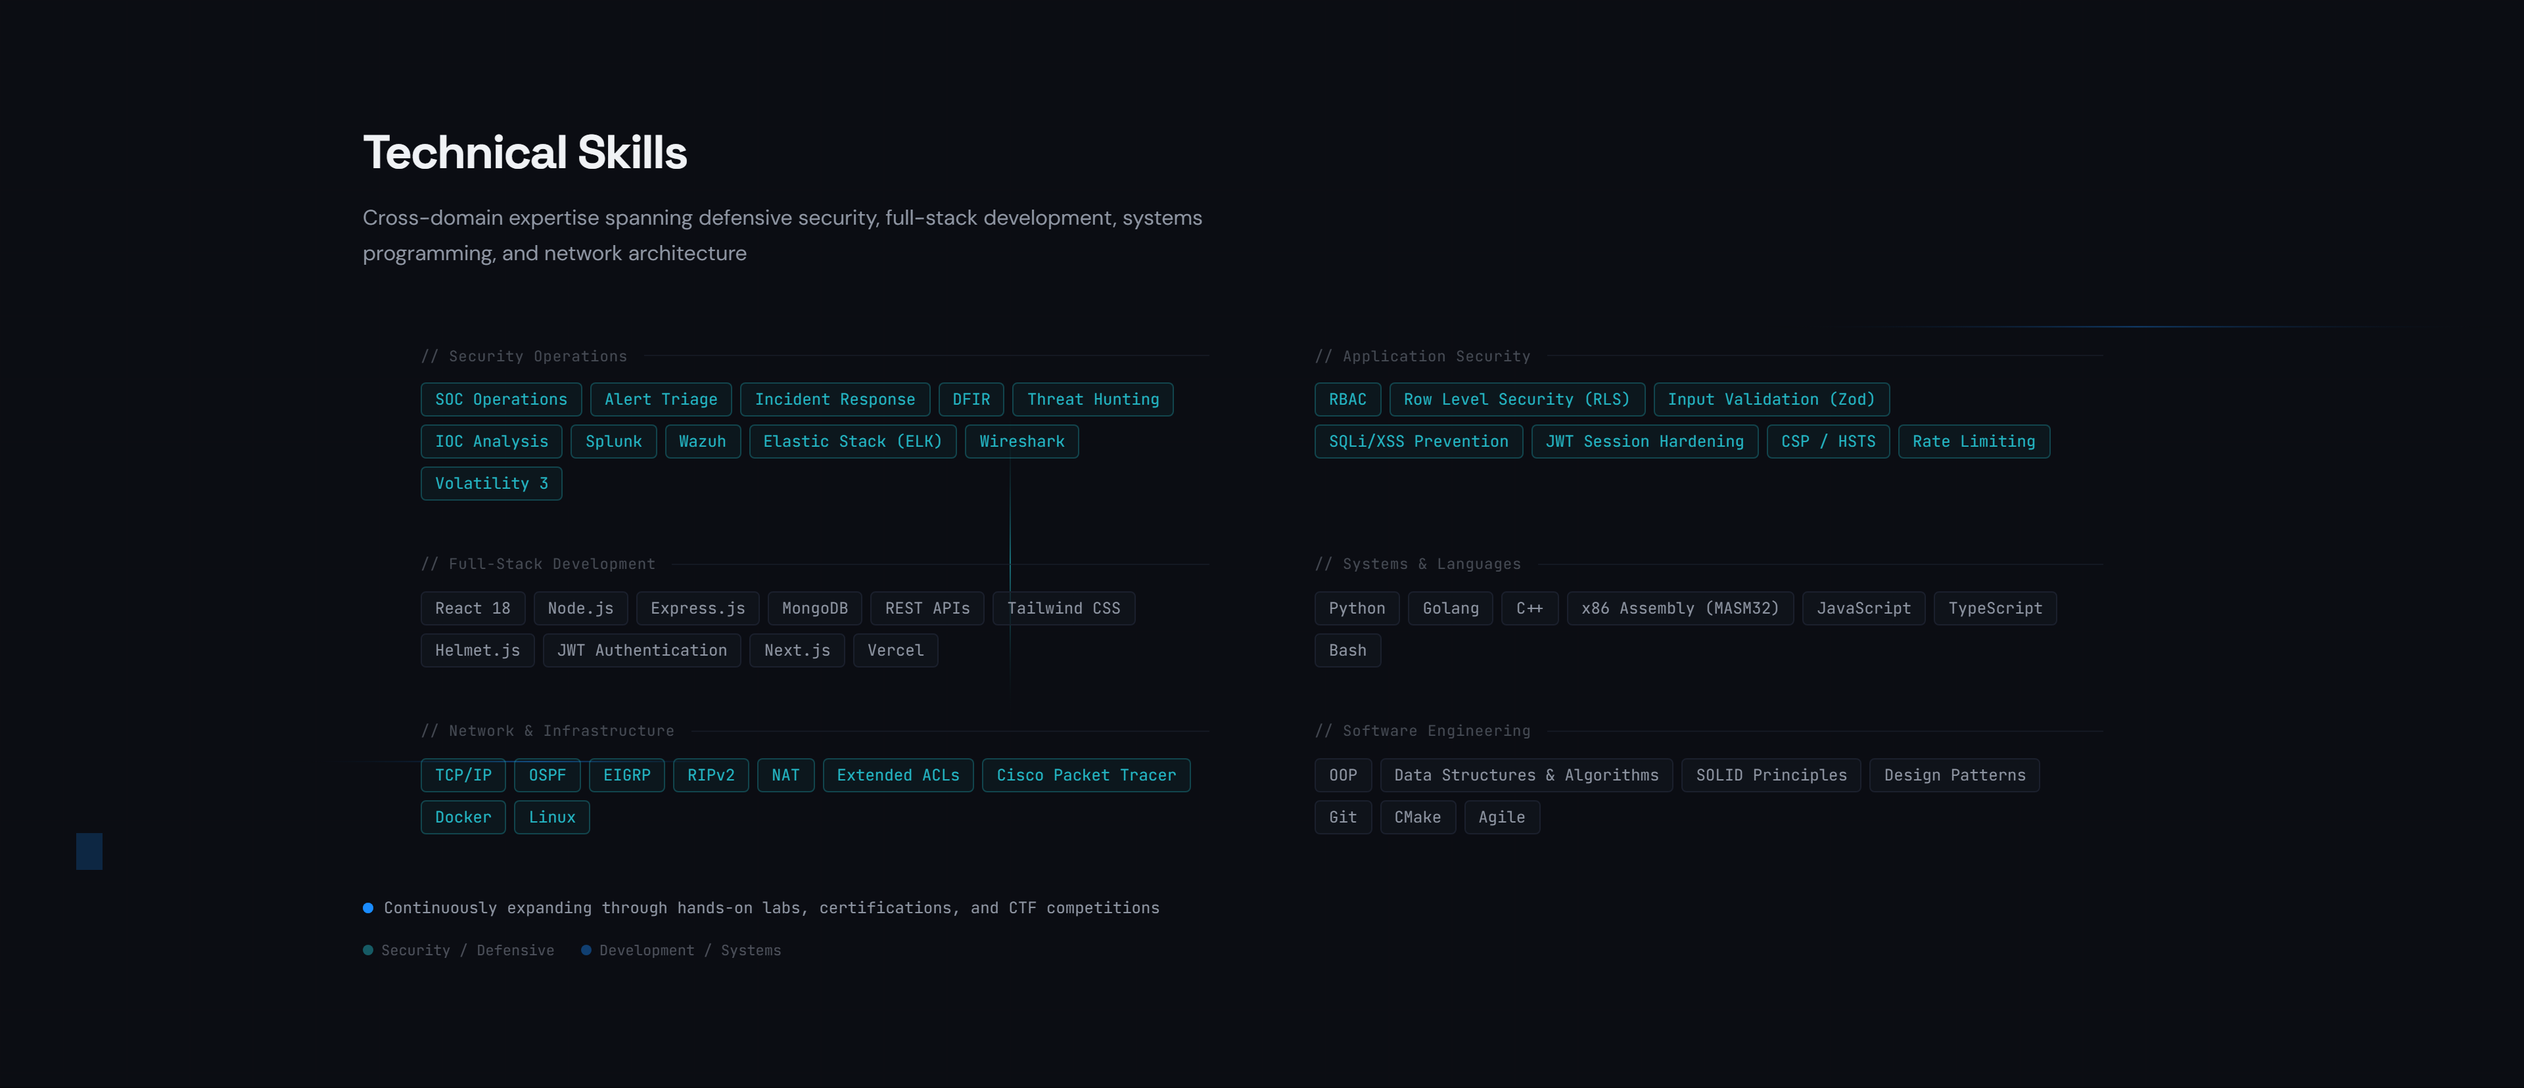
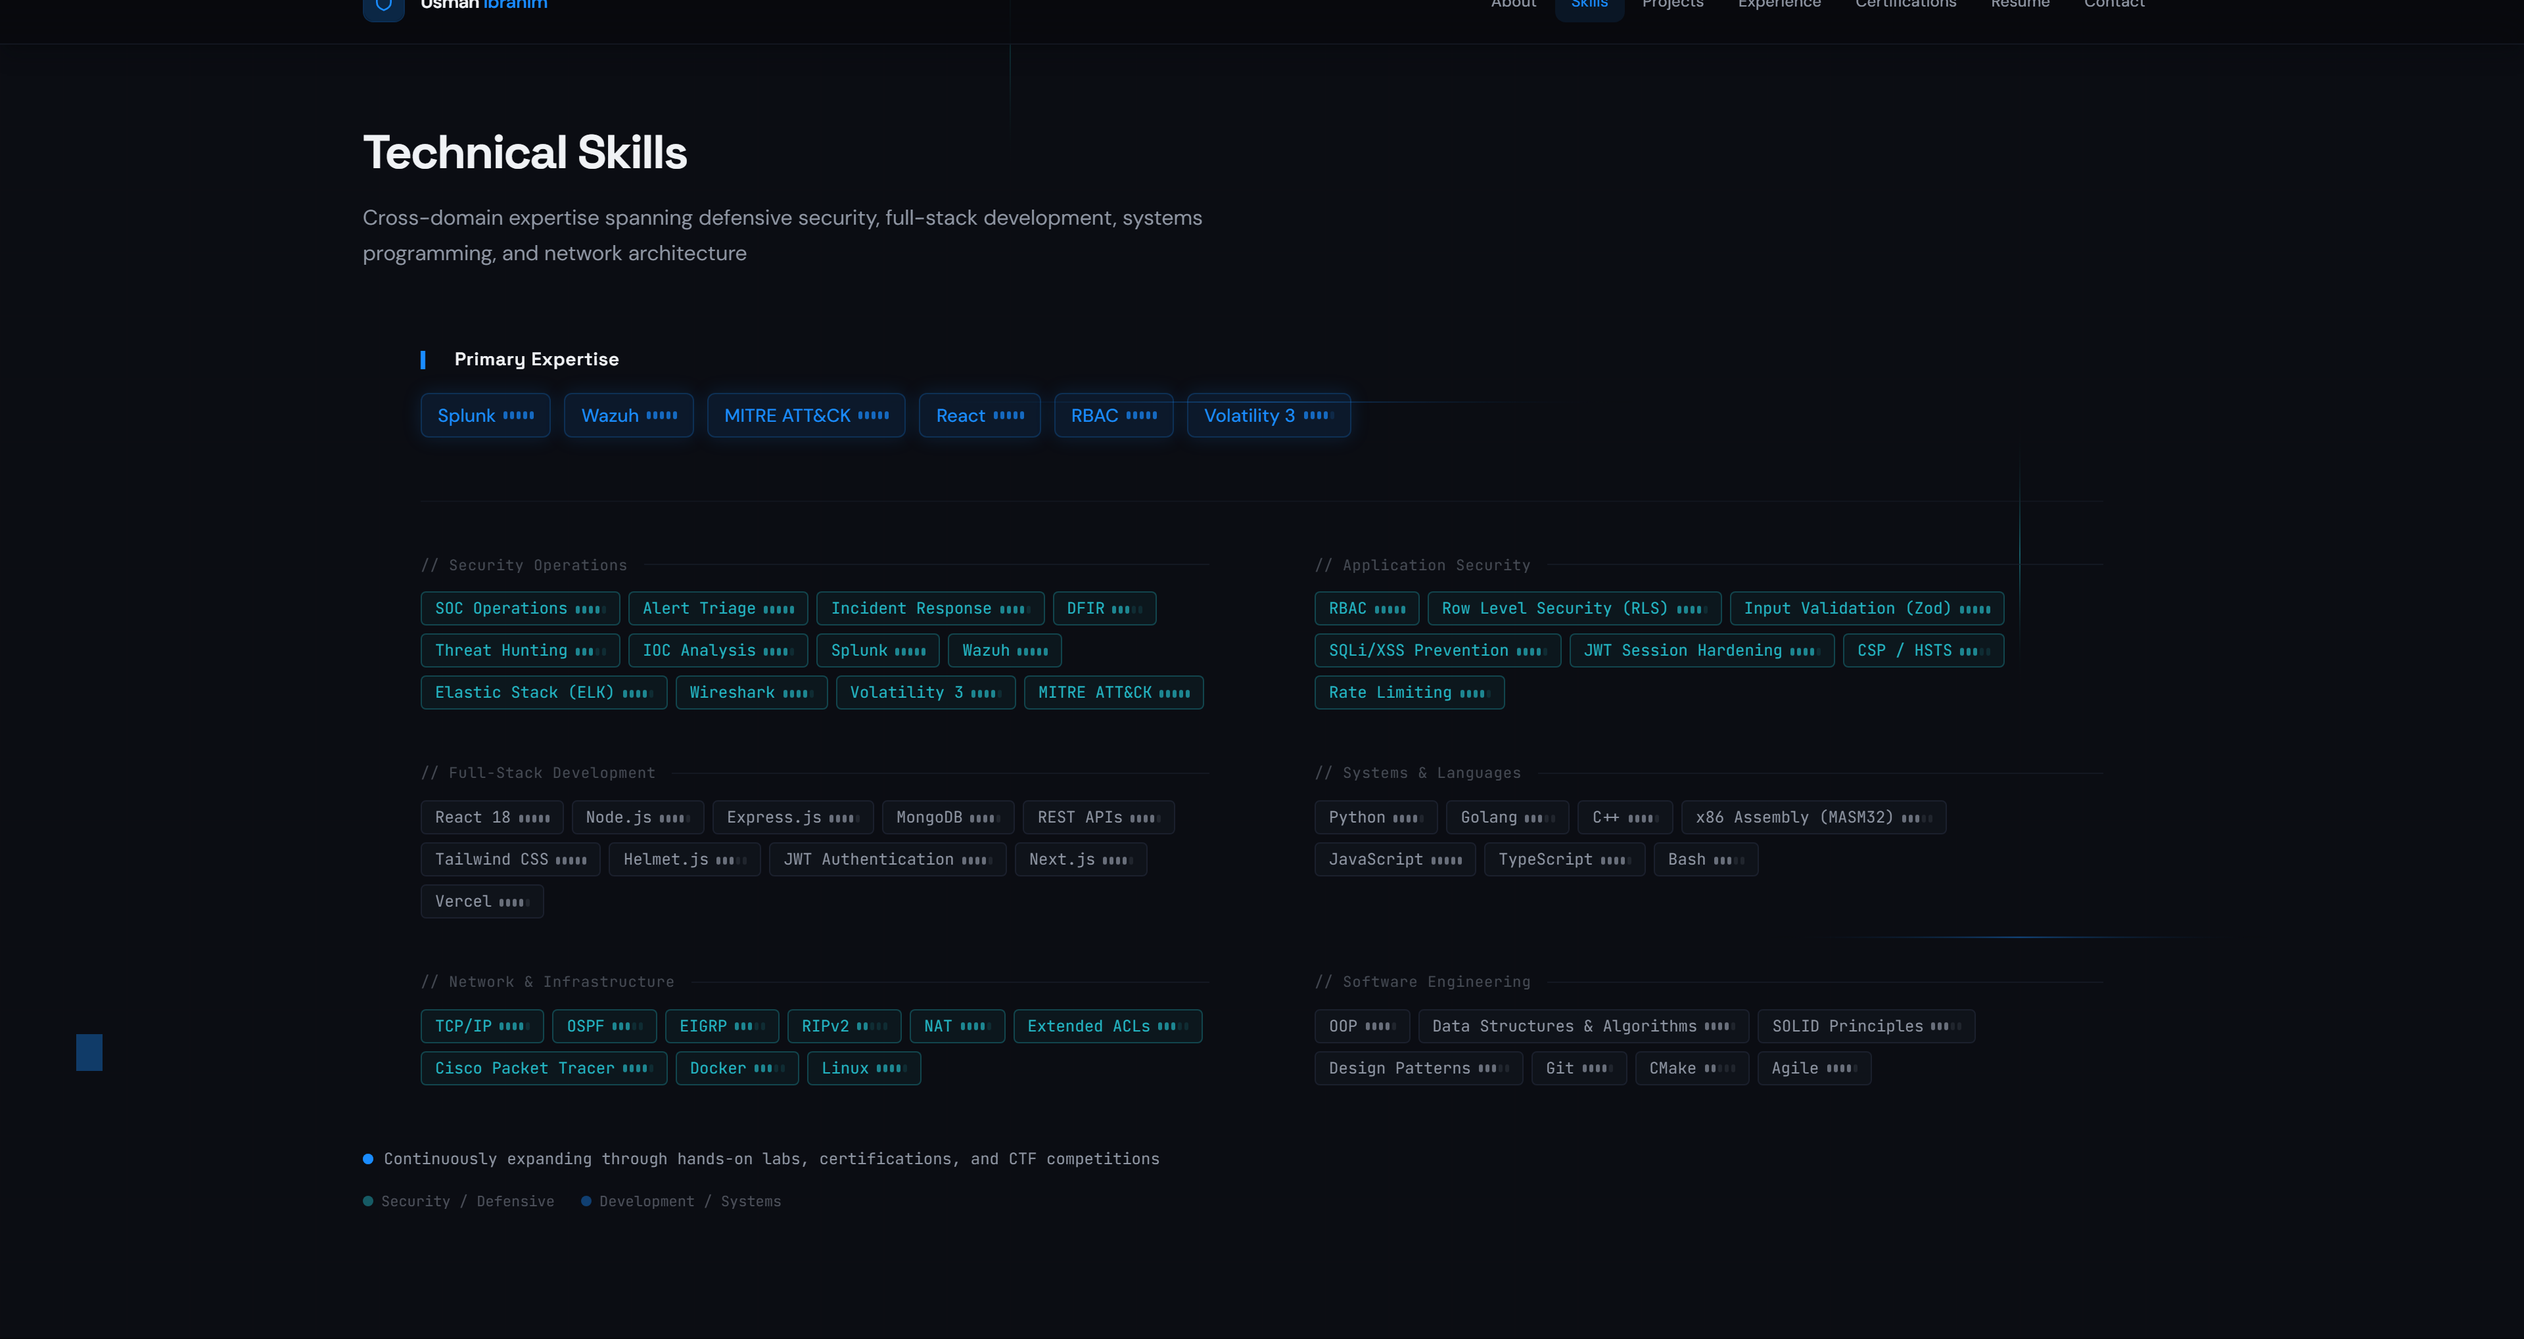
fix: cross-section consistency audit
- Removed leftover 'open to' language from Contact section to align with confident professional positioning
- Verified consistent typography (Space Grotesk headers, DM Sans body, JetBrains Mono tags)
- Verified consistent color token usage (cyan for security, primary/blue for dev, amber for pending, emerald for verified)
- Verified consistent section padding (py-24) and responsive container structure
- Verified consistent ambient animation opacity ranges (5-15%)

diff --git a/src/components/Certifications.tsx b/src/components/Certifications.tsx
@@ -9,6 +9,8 @@ interface Certification {
   certificateId?: string;
   verifyUrl?: string;
   pdfPath?: string;
+  highlighted?: boolean;
+  progress?: number;
 }
 
 interface CertDomain {
@@ -56,11 +58,13 @@ const certDomains: CertDomain[] = [
         date: "2025-07-14",
         certificateId: "91E5K3WV26JN",
         verifyUrl: "https://www.coursera.org/account/accomplishments/verify/91E5K3WV26JN",
+        highlighted: true,
       },
       {
         name: "Certified Defensive Security Analyst (CDSA)",
         issuer: "Hack The Box",
         status: "in-progress",
+        progress: 30,
       },
     ],
   },
@@ -95,6 +99,7 @@ const certDomains: CertDomain[] = [
         date: "2025-12-14",
         certificateId: "86998107514629",
         verifyUrl: "https://www.skillfront.com/Badges/86998107514629",
+        highlighted: true,
       },
     ],
   },
@@ -160,16 +165,34 @@ const Certifications = () => {
                   const linkUrl = cert.verifyUrl || cert.pdfPath;
                   const isPdf = !!cert.pdfPath;
                   const isInProgress = cert.status === "in-progress";
+                  
+                  let monogram = cert.issuer.substring(0, 2).toUpperCase();
+                  if (cert.issuer.includes(" ")) {
+                    const parts = cert.issuer.split(" ");
+                    monogram = (parts[0][0] + parts[1][0]).toUpperCase();
+                  }
 
                   return (
-                    <div key={cert.name} className="cert-row">
-                      {/* Status pill */}
-                      <div className="shrink-0 mt-0.5">
+                    <div key={cert.name} className={`cert-row ${cert.highlighted ? 'bg-primary/5 border-l-2 border-l-primary/50' : ''}`}>
+                      {/* Status pill / Progress */}
+                      <div className="shrink-0 mt-0.5 w-20">
                         {isInProgress ? (
-                          <span className="inline-flex items-center gap-1 text-[9px] font-mono px-1.5 py-0.5 rounded border border-amber-500/30 bg-amber-500/10 text-amber-400 whitespace-nowrap">
-                            <Clock className="w-2.5 h-2.5" />
-                            PENDING
-                          </span>
+                          cert.progress ? (
+                            <div className="flex flex-col gap-1.5 mt-0.5">
+                              <span className="inline-flex items-center gap-1 text-[9px] font-mono text-amber-500">
+                                <Clock className="w-2.5 h-2.5" />
+                                {cert.progress}%
+                              </span>
+                              <div className="h-1 w-14 bg-amber-500/10 rounded-full overflow-hidden border border-amber-500/20">
+                                <div className="h-full bg-amber-500/80 animate-pulse" style={{ width: `${cert.progress}%` }} />
+                              </div>
+                            </div>
+                          ) : (
+                            <span className="inline-flex items-center gap-1 text-[9px] font-mono px-1.5 py-0.5 rounded border border-amber-500/30 bg-amber-500/10 text-amber-400 whitespace-nowrap">
+                              <Clock className="w-2.5 h-2.5" />
+                              PENDING
+                            </span>
+                          )
                         ) : (
                           <span className="inline-flex items-center gap-1 text-[9px] font-mono px-1.5 py-0.5 rounded border border-emerald-500/30 bg-emerald-500/10 whitespace-nowrap" style={{ color: "hsl(152 68% 46%)" }}>
                             <CheckCircle className="w-2.5 h-2.5" />
@@ -178,14 +201,28 @@ const Certifications = () => {
                         )}
                       </div>
 
-                      {/* Name + issuer */}
-                      <div className="flex-1 min-w-0">
-                        <p className="text-[13px] font-medium text-foreground leading-snug">{cert.name}</p>
-                        <p className="text-[11px] text-muted-foreground/60 sm:hidden">{cert.issuer}{cert.date && ` · ${fmtDate(cert.date)}`}</p>
+                      {/* Issuer Monogram */}
+                      <div className="hidden sm:flex w-7 h-7 rounded-md bg-secondary/80 border border-border/50 items-center justify-center shrink-0 text-[10px] font-bold text-muted-foreground/80 font-mono opacity-80 mix-blend-luminosity">
+                        {monogram}
                       </div>
 
-                      {/* Issuer */}
-                      <span className="hidden sm:block text-[11px] font-mono text-muted-foreground/60 text-right shrink-0 whitespace-nowrap">{cert.issuer}</span>
+                      {/* Name + issuer */}
+                      <div className="flex-1 min-w-0">
+                        <div className="flex items-center gap-2">
+                          <p className={`text-[13px] font-medium leading-snug ${cert.highlighted ? 'text-primary drop-shadow-[0_0_8px_hsl(var(--primary)/0.3)]' : 'text-foreground'}`}>
+                            {cert.name}
+                          </p>
+                          {cert.highlighted && (
+                            <span className="hidden sm:inline-flex px-1.5 py-0.5 text-[8px] uppercase tracking-wider font-bold bg-primary/10 text-primary/90 rounded border border-primary/20">
+                              Relevant
+                            </span>
+                          )}
+                        </div>
+                        <p className="text-[11px] text-muted-foreground/60 sm:hidden mt-1">{cert.issuer}{cert.date && ` · ${fmtDate(cert.date)}`}</p>
+                      </div>
+
+                      {/* Issuer Text (Desktop) */}
+                      <span className="hidden sm:block text-[11px] font-mono text-muted-foreground/60 text-right shrink-0 whitespace-nowrap w-32 truncate">{cert.issuer}</span>
 
                       {/* Date */}
                       <span className="hidden sm:block text-[11px] font-mono text-muted-foreground/50 text-right shrink-0 whitespace-nowrap w-20">
@@ -195,18 +232,18 @@ const Certifications = () => {
                       </span>
 
                       {/* Link */}
-                      <div className="shrink-0">
+                      <div className="shrink-0 w-6 flex justify-end">
                         {linkUrl ? (
                           <a
                             href={linkUrl}
                             target="_blank"
                             rel="noopener noreferrer"
-                            className="inline-flex items-center gap-0.5 text-[11px] font-mono text-primary/60 hover:text-primary transition-colors duration-200"
+                            className="inline-flex items-center justify-center w-6 h-6 rounded-md hover:bg-secondary text-primary/60 hover:text-primary transition-colors duration-200"
                           >
-                            {isPdf ? <FileText className="w-3 h-3" /> : <ExternalLink className="w-3 h-3" />}
+                            {isPdf ? <FileText className="w-3.5 h-3.5" /> : <ExternalLink className="w-3.5 h-3.5" />}
                           </a>
                         ) : (
-                          <span className="w-4 inline-block" />
+                          <span className="w-6 inline-block" />
                         )}
                       </div>
                     </div>

diff --git a/src/components/Skills.tsx b/src/components/Skills.tsx
@@ -5,34 +5,112 @@ const skillGroups = [
   {
     comment: "// Security Operations",
     domain: "security" as const,
-    skills: ["SOC Operations", "Alert Triage", "Incident Response", "DFIR", "Threat Hunting", "IOC Analysis", "Splunk", "Wazuh", "Elastic Stack (ELK)", "Wireshark", "Volatility 3"],
+    skills: [
+      { name: "SOC Operations", level: 4 },
+      { name: "Alert Triage", level: 5 },
+      { name: "Incident Response", level: 4 },
+      { name: "DFIR", level: 3 },
+      { name: "Threat Hunting", level: 3 },
+      { name: "IOC Analysis", level: 4 },
+      { name: "Splunk", level: 5 },
+      { name: "Wazuh", level: 5 },
+      { name: "Elastic Stack (ELK)", level: 4 },
+      { name: "Wireshark", level: 4 },
+      { name: "Volatility 3", level: 4 },
+      { name: "MITRE ATT&CK", level: 5 },
+    ],
   },
   {
     comment: "// Application Security",
     domain: "security" as const,
-    skills: ["RBAC", "Row Level Security (RLS)", "Input Validation (Zod)", "SQLi/XSS Prevention", "JWT Session Hardening", "CSP / HSTS", "Rate Limiting"],
+    skills: [
+      { name: "RBAC", level: 5 },
+      { name: "Row Level Security (RLS)", level: 4 },
+      { name: "Input Validation (Zod)", level: 5 },
+      { name: "SQLi/XSS Prevention", level: 4 },
+      { name: "JWT Session Hardening", level: 4 },
+      { name: "CSP / HSTS", level: 3 },
+      { name: "Rate Limiting", level: 4 },
+    ],
   },
   {
     comment: "// Full-Stack Development",
     domain: "dev" as const,
-    skills: ["React 18", "Node.js", "Express.js", "MongoDB", "REST APIs", "Tailwind CSS", "Helmet.js", "JWT Authentication", "Next.js", "Vercel"],
+    skills: [
+      { name: "React 18", level: 5 },
+      { name: "Node.js", level: 4 },
+      { name: "Express.js", level: 4 },
+      { name: "MongoDB", level: 4 },
+      { name: "REST APIs", level: 4 },
+      { name: "Tailwind CSS", level: 5 },
+      { name: "Helmet.js", level: 3 },
+      { name: "JWT Authentication", level: 4 },
+      { name: "Next.js", level: 4 },
+      { name: "Vercel", level: 4 },
+    ],
   },
   {
     comment: "// Systems & Languages",
     domain: "dev" as const,
-    skills: ["Python", "Golang", "C++", "x86 Assembly (MASM32)", "JavaScript", "TypeScript", "Bash"],
+    skills: [
+      { name: "Python", level: 4 },
+      { name: "Golang", level: 3 },
+      { name: "C++", level: 4 },
+      { name: "x86 Assembly (MASM32)", level: 3 },
+      { name: "JavaScript", level: 5 },
+      { name: "TypeScript", level: 4 },
+      { name: "Bash", level: 3 },
+    ],
   },
   {
     comment: "// Network & Infrastructure",
     domain: "security" as const,
-    skills: ["TCP/IP", "OSPF", "EIGRP", "RIPv2", "NAT", "Extended ACLs", "Cisco Packet Tracer", "Docker", "Linux"],
+    skills: [
+      { name: "TCP/IP", level: 4 },
+      { name: "OSPF", level: 3 },
+      { name: "EIGRP", level: 3 },
+      { name: "RIPv2", level: 2 },
+      { name: "NAT", level: 4 },
+      { name: "Extended ACLs", level: 3 },
+      { name: "Cisco Packet Tracer", level: 4 },
+      { name: "Docker", level: 3 },
+      { name: "Linux", level: 4 },
+    ],
   },
   {
     comment: "// Software Engineering",
     domain: "dev" as const,
-    skills: ["OOP", "Data Structures & Algorithms", "SOLID Principles", "Design Patterns", "Git", "CMake", "Agile"],
+    skills: [
+      { name: "OOP", level: 4 },
+      { name: "Data Structures & Algorithms", level: 4 },
+      { name: "SOLID Principles", level: 3 },
+      { name: "Design Patterns", level: 3 },
+      { name: "Git", level: 4 },
+      { name: "CMake", level: 2 },
+      { name: "Agile", level: 4 },
+    ],
   },
 ];
+
+const topSkills = [
+  { name: "Splunk", level: 5, domain: "security" },
+  { name: "Wazuh", level: 5, domain: "security" },
+  { name: "MITRE ATT&CK", level: 5, domain: "security" },
+  { name: "React", level: 5, domain: "dev" },
+  { name: "RBAC", level: 5, domain: "security" },
+  { name: "Volatility 3", level: 4, domain: "security" },
+];
+
+const SkillIndicator = ({ level, max = 5 }: { level: number; max?: number }) => (
+  <div className="flex gap-[2px] ml-1.5 opacity-70 mt-[1px]">
+    {Array.from({ length: max }).map((_, i) => (
+      <div 
+        key={i} 
+        className={`w-[3px] h-1.5 rounded-sm ${i < level ? "bg-current" : "bg-current opacity-20"}`}
+      />
+    ))}
+  </div>
+);
 
 const Skills = () => {
   const { ref: headerRef, isRevealed: headerRevealed } = useScrollReveal();
@@ -96,7 +174,29 @@ const Skills = () => {
           ref={gridRef}
           className="px-4 sm:px-10 lg:px-20 xl:px-32 max-w-screen-2xl mx-auto"
         >
-          <div className="grid md:grid-cols-2 gap-x-20 gap-y-10">
+          {/* Top / Featured Skills Anchor Row */}
+          <div 
+            className={`mb-12 transition-all duration-500 ${gridRevealed ? "opacity-100 translate-y-0" : "opacity-0 translate-y-6"}`}
+          >
+            <div className="flex items-center gap-3 mb-4">
+              <span className="text-primary font-mono text-sm">▎</span>
+              <h3 className="text-sm font-semibold text-foreground tracking-wide">Primary Expertise</h3>
+            </div>
+            <div className="flex flex-wrap gap-2.5">
+              {topSkills.map((skill, i) => (
+                <div 
+                  key={skill.name}
+                  className="flex items-center px-3 py-1.5 rounded-md border border-primary/20 bg-primary/10 text-primary text-sm font-medium shadow-[0_0_15px_hsl(var(--primary)/0.15)]"
+                  style={{ transitionDelay: `${i * 50}ms` }}
+                >
+                  {skill.name}
+                  <SkillIndicator level={skill.level} />
+                </div>
+              ))}
+            </div>
+          </div>
+
+          <div className="grid md:grid-cols-2 gap-x-20 gap-y-10 border-t border-border/40 pt-10">
             {skillGroups.map((group, gi) => (
               <div
                 key={group.comment}
@@ -107,11 +207,12 @@ const Skills = () => {
                 <div className="flex flex-wrap gap-1.5">
                   {group.skills.map((skill, si) => (
                     <span
-                      key={skill}
-                      className={group.domain === "security" ? "skill-tag-security" : "skill-tag"}
+                      key={skill.name}
+                      className={group.domain === "security" ? "skill-tag-security flex items-center" : "skill-tag flex items-center"}
                       style={{ transitionDelay: `${gi * 50 + si * 15}ms` }}
                     >
-                      {skill}
+                      {skill.name}
+                      <SkillIndicator level={skill.level} />
                     </span>
                   ))}
                 </div>

diff --git a/src/components/Contact.tsx b/src/components/Contact.tsx
@@ -97,7 +97,7 @@ const Contact = () => {
           >
             <h2 className="section-title">Contact</h2>
             <p className="section-subtitle mt-4">
-              Open to discussing cybersecurity, SOC operations, AI solutions, or collaboration opportunities
+              Connect to discuss cybersecurity architecture, SOC operations, AI solutions, or specialized research initiatives
             </p>
           </div>
 
@@ -187,7 +187,7 @@ const Contact = () => {
                   </div>
 
                 <p className="text-xs text-muted-foreground mb-4 leading-relaxed">
-                  Open to conversations about SOC operations, DFIR, secure development, or security research collaboration.
+                  Reach out to discuss SOC operations, DFIR engagements, secure development practices, or security research collaboration.
                   I aim to respond within 24-48 hours.
                 </p>
 
